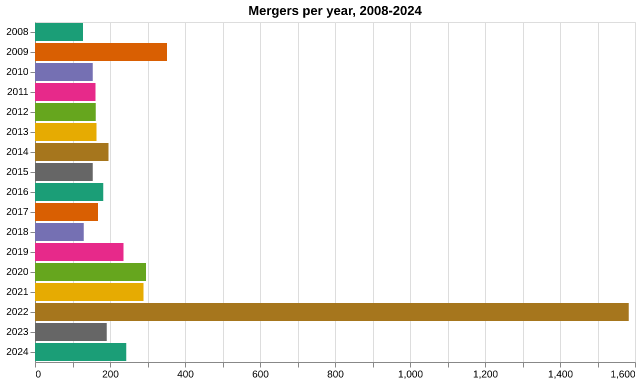
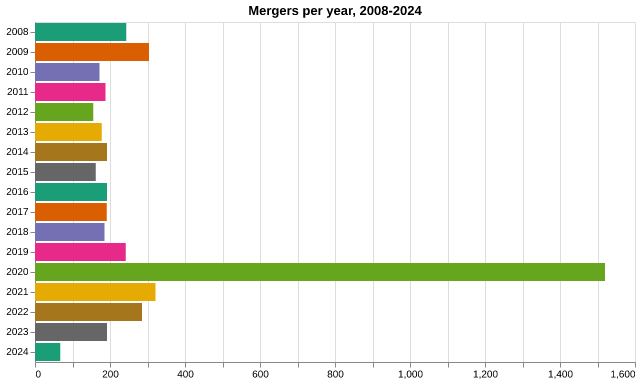
update merger count analysis

diff --git a/code/charity_commission.py b/code/charity_commission.py
@@ -689,8 +689,8 @@ consolidation_merger_victim_support
 # %%
 # merger counts by year
 merger_counts = df.groupby(
-    df['date_registered'].dt.year, as_index=True
-)['date_registered'].count()
+    df['date_transferred'].dt.year, as_index=True
+)['date_transferred'].count()
 
 merger_counts = merger_counts.to_frame('count').reset_index()
 
@@ -702,9 +702,9 @@ chart = (
     alt.Chart(merger_counts)
     .mark_bar()
     .encode(
-        alt.Y('date_registered:N', title=''),
+        alt.Y('date_transferred:N', title=''),
         alt.X('count:Q', title=''),
-        alt.Color('date_registered:N', legend=None, scale=alt.Scale(scheme='dark2')),
+        alt.Color('date_transferred:N', legend=None, scale=alt.Scale(scheme='dark2')),
     )
     .properties(
         title='Mergers per year, 2008-2024',
@@ -713,6 +713,36 @@ chart = (
 )
 
 chart.save('../charts/merger_counts.png')
+
+chart
+
+# %%
+# merger counts by year
+merger_counts_unique = df.drop_duplicates(subset=['transferee', 'date_transferred']).groupby(
+    df['date_transferred'].dt.year, as_index=True
+)['date_transferred'].count()
+
+merger_counts_unique = merger_counts_unique.to_frame('count').reset_index()
+
+merger_counts_unique.T
+
+# %%
+# merger counts by year
+chart = (
+    alt.Chart(merger_counts_unique)
+    .mark_bar()
+    .encode(
+        alt.Y('date_transferred:N', title=''),
+        alt.X('count:Q', title=''),
+        alt.Color('date_transferred:N', legend=None, scale=alt.Scale(scheme='dark2')),
+    )
+    .properties(
+        title='Mergers per year (consolidation = 1 merger), 2008-2024',
+        width=600
+    )
+)
+
+chart.save('../charts/merger_counts_unique.png')
 
 chart
 
